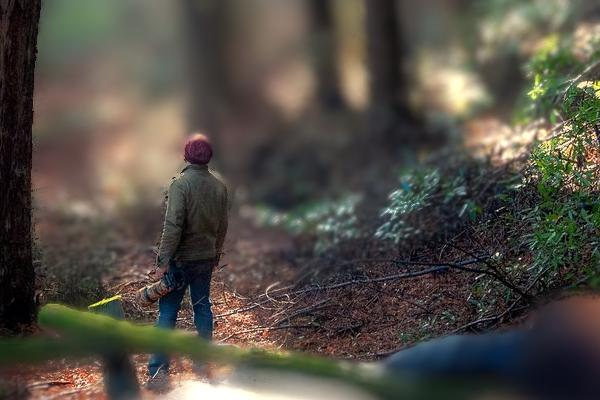
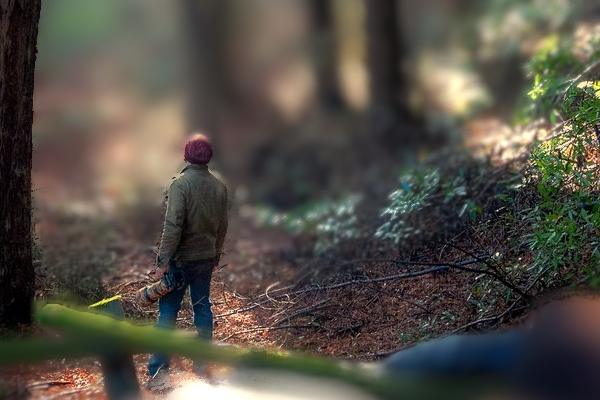
Lens Blur: no halo of a sharp subject in the background's blur
Coarse levels shrank the sharp subject together with the background, so its
color spread into the blur around it (Rosh's hat at 100%). A level now sees
only pixels that blur by about one of its pixels or more (atelierLensBlurWeigh,
weighted and divided back out in the gather); sharp pixels are holes there,
filled from what blurs onto them, and still take the foreground's spill.
Python port: halo ring error 0.19 -> 0.007 on a synthetic sharp disc at a
90 px blur; help 100% picture regenerated.

Claude-Session: https://claude.ai/code/session_013w17eDTrFTBU84rUGLD2Nf

diff --git a/Sources/AtelierCore/Develop/LensBlur.swift b/Sources/AtelierCore/Develop/LensBlur.swift
@@ -110,7 +110,8 @@ public enum LensBlur {
         guard isOn(settings), let kernels, let cocKernel = kernels["atelierLensBlurCoC"],
               let boostKernel = kernels["atelierLensBlurBoost"], let gather = kernels["atelierLensBlurGather"],
               let levelKernel = kernels["atelierLensBlurLevel"], let composite = kernels["atelierLensBlurComposite"],
-              let spillKernel = kernels["atelierLensBlurSpill"] else { return image }
+              let spillKernel = kernels["atelierLensBlurSpill"],
+              let weighKernel = kernels["atelierLensBlurWeigh"] else { return image }
         let extent = image.extent
         let longEdge = Double(max(extent.width, extent.height))
         let maxRadius = settings[.lensBlurAmount] / 100 * maxRadiusShare * longEdge
@@ -140,6 +141,16 @@ public enum LensBlur {
             let factor = pow(levelStep, -Double(level))
             let frame = CGRect(x: 0, y: 0, width: max(1, (extent.width * factor).rounded(.down)),
                                height: max(1, (extent.height * factor).rounded(.down)))
+            // What a level sees: only pixels that blur by about one of its pixels or more. A sharp
+            // pixel (the subject in focus) shrunk into a coarse level spread its color into the
+            // background's blur around it, a halo outside a sharp edge (Rosh's hat, Nov 16, 2026).
+            // Weighted (color and blur times the weight, the weight in alpha) and divided back
+            // out in the gather; level 0 keeps every pixel.
+            let minimum = level == 0 ? -1.0 : maxRadius * factor
+            func weighed(_ picture: CIImage, blurSizes: Bool) -> CIImage? {
+                weighKernel.apply(extent: extent, roiCallback: same,
+                                  arguments: [picture, coc, CIVector(x: minimum, y: blurSizes ? 1 : 0)])
+            }
             func shrink(_ picture: CIImage) -> CIImage {
                 let moved = picture.transformed(by: toOrigin)
                 guard level > 0 else { return moved }
@@ -160,9 +171,10 @@ public enum LensBlur {
             // bark) under it came out mottled, and a coarse level's upsizing made the mottle
             // large at 100%. Softening the colors by under a pixel first keeps the blur smooth
             // (checked on the redwoods photo at 100%, Nov 16, 2026).
-            guard let blurred = gather.apply(extent: frame, roiCallback: around,
-                                             arguments: [shrink(boosted).clampedToExtent().applyingGaussianBlur(sigma: prefilter),
-                                                         shrink(coc).clampedToExtent(),
+            guard let levelColor = weighed(boosted, blurSizes: false), let levelCoC = weighed(coc, blurSizes: true),
+                  let blurred = gather.apply(extent: frame, roiCallback: around,
+                                             arguments: [shrink(levelColor).clampedToExtent().applyingGaussianBlur(sigma: prefilter),
+                                                         shrink(levelCoC).clampedToExtent(),
                                                          CIVector(x: radius, y: shape, z: catEye, w: Double(samples)),
                                                          center, CIVector(x: maxRadius * factor, y: cutoff)])
             else { return image }
@@ -272,6 +284,19 @@ public enum LensBlur {
             return float4(c, c, c, 1.0);
         }
 
+        // A level's input, weighted by whether the pixel blurs by about a level pixel or more
+        // (params.x: the largest blur in this level's pixels; negative keeps every pixel).
+        // params.y 0: the color times the weight, the weight in alpha; 1: the signed blur times
+        // the weight in red, the weight in green. The gather divides the weight back out.
+        [[stitchable]] float4 atelierLensBlurWeigh(coreimage::sampler image, coreimage::sampler coc, float2 params,
+                                                   coreimage::destination dest) {
+            float c = coc.sample(coc.transform(dest.coord())).r;
+            float w = params.x < 0.0 ? 1.0 : smoothstep(0.5, 1.5, abs(c) * params.x);
+            if (params.y > 0.5) { return float4(c * w, w, 0.0, 1.0); }
+            float4 color = image.sample(image.transform(dest.coord()));
+            return float4(color.rgb * w, w);
+        }
+
         // Boost: the brightest highlights (near clipping) brighter, so they spread as bright
         // bokeh. Only those: boosting every light tone turned sunlit wood into flat white blobs
         // (checked on the redwoods splash photo, Nov 15, 2026).
@@ -294,13 +319,21 @@ public enum LensBlur {
             float catEye = params.z;
             int count = int(params.w + 0.5);
             float2 p = dest.coord();
-            float cp = coc.sample(coc.transform(p)).r;
-            if (abs(cp) * scale.x >= scale.y) { return float4(0.0); }
+            // color and coc are weighted (atelierLensBlurWeigh): a pixel with almost no weight is
+            // a hole, sharp at this level. It takes no light of its own and gathers what blurs
+            // onto it from around (so the level stays filled up to a sharp edge), and counts as
+            // sharp for what spills over it from in front.
+            float2 own = coc.sample(coc.transform(p)).rg;
+            bool hole = own.y < 0.02;
+            float cp = hole ? 0.0 : own.x / own.y;
+            if (!hole && abs(cp) * scale.x >= scale.y) { return float4(0.0); }
             // Radii in this level's pixels: a blur past the gather's reach is cut to it.
             cp = sign(cp) * min(abs(cp) * scale.x, R) / R;
+            float cpReach = hole ? 1.0 : cp;
             float rp = abs(cp) * R;
-            float selfWeight = 1.0 / max(rp * rp, 1.0);
-            float3 sum = color.sample(color.transform(p)).rgb * selfWeight;
+            float selfWeight = hole ? 0.0 : 1.0 / max(rp * rp, 1.0);
+            float4 ownColor = color.sample(color.transform(p));
+            float3 sum = hole ? float3(0.0) : ownColor.rgb / max(ownColor.a, 0.0001) * selfWeight;
             float total = selfWeight;
             float spill = 0.0;
             float2 toEdge = (p - frame.xy) / frame.z;
@@ -309,10 +342,12 @@ public enum LensBlur {
                 float angle = float(i) * 2.39996323;
                 float2 o = r * float2(cos(angle), sin(angle));
                 float2 q = p + o;
-                float cq = coc.sample(coc.transform(q)).r;
+                float2 there = coc.sample(coc.transform(q)).rg;
+                if (there.y < 0.02) { continue; }
+                float cq = there.x / there.y;
                 cq = sign(cq) * min(abs(cq) * scale.x, R) / R;
                 // Something farther than this pixel blurs onto it no more than this pixel blurs.
-                float reach = (cq > cp ? min(abs(cq), abs(cp)) : abs(cq)) * R;
+                float reach = (cq > cpReach ? min(abs(cq), abs(cpReach)) : abs(cq)) * R;
                 float2 d = -o;
                 float limit = 1.0;
                 if (shape == 2) {
@@ -334,11 +369,14 @@ public enum LensBlur {
                 if (shape == 1) { light = 0.55 + 0.9 * u * u * u * u; }
                 else if (shape == 3) { light = 0.12 + smoothstep(0.55, 0.85, u); }
                 float w = cover * light / max(reach * reach, 1.0);
-                sum += color.sample(color.transform(q)).rgb * w;
+                float4 seen = color.sample(color.transform(q));
+                sum += seen.rgb / max(seen.a, 0.0001) * w;
                 total += w;
                 if (cq < cp - 0.02 && abs(cq) > abs(cp)) { spill += w; }
             }
-            return float4(sum / total, spill / total);
+            // A hole's spill is measured against a sharp pixel's own weight (1), as at full size.
+            float alpha = hole ? spill / (1.0 + spill) : spill / max(total, 0.0001);
+            return float4(total > 0.0 ? sum / total : float3(0.0), alpha);
         }
 
         // Mixes in level `params.y` over the levels before it. params: largest blur (full-size

diff --git a/Scripts/help/make_help_images.py b/Scripts/help/make_help_images.py
@@ -437,16 +437,22 @@ def calibration(image, red_hue=0, red_sat=0, green_hue=0, green_sat=0, blue_hue=
     return np.power(np.clip(out, 0, 1), 1 / 2.2)
 
 
-def _lens_gather(color, c, R, shape, cat_eye, count, skip):
+def _lens_gather(color, c, R, shape, cat_eye, count, skip, holes=None):
     """One level of Lens Blur's gather (atelierLensBlurGather): `c` is the signed blur, capped to
     this level's radius `R` (in its pixels) and divided by it; `skip` marks the pixels whose own
-    blur belongs to coarser levels (left at 0). Returns the blur and the spill."""
+    blur belongs to coarser levels (left at 0); `holes` the pixels sharp at this level (no
+    weight in atelierLensBlurWeigh), which take no light of their own and are never gathered.
+    Returns the blur and the spill."""
     from scipy.ndimage import map_coordinates
     h, w = c.shape
+    if holes is None:
+        holes = np.zeros((h, w), bool)
     yy, xx = np.mgrid[0:h, 0:w].astype(np.float32)
     half = 0.5 * np.hypot(w, h)
     vx, vy = (xx - w / 2) / half, (yy - h / 2) / half
-    weight = 1 / np.maximum((np.abs(c) * R) ** 2, 1)
+    hf = holes.astype(np.float32)
+    c_reach = np.where(holes, 1.0, c)
+    weight = np.where(holes, 0.0, 1 / np.maximum((np.abs(c) * R) ** 2, 1))
     total, acc, spill = weight.copy(), color * weight[..., None], np.zeros_like(weight)
     for i in range(count):
         r = R * np.sqrt((i + 0.5) / count)
@@ -454,7 +460,8 @@ def _lens_gather(color, c, R, shape, cat_eye, count, skip):
         ox, oy = r * np.cos(a), r * np.sin(a)
         cq = map_coordinates(c, [yy + oy, xx + ox], order=1, mode="nearest")
         cols = np.dstack([map_coordinates(color[..., k], [yy + oy, xx + ox], order=1, mode="nearest") for k in range(3)])
-        reach = np.where(cq > c, np.minimum(np.abs(cq), np.abs(c)), np.abs(cq)) * R
+        hq = map_coordinates(hf, [yy + oy, xx + ox], order=1, mode="nearest")
+        reach = np.where(cq > c_reach, np.minimum(np.abs(cq), np.abs(c_reach)), np.abs(cq)) * R
         dx, dy = -ox, -oy
         limit = 1.0
         if shape == 2:
@@ -462,7 +469,7 @@ def _lens_gather(color, c, R, shape, cat_eye, count, skip):
             limit = 0.80901699 / np.cos(t)
         elif shape == 4:
             limit = 1 / np.sqrt((dx / max(r, 1e-4) / 0.55) ** 2 + (dy / max(r, 1e-4)) ** 2)
-        cover = np.clip(reach * limit - r + 0.5, 0, 1)
+        cover = np.clip(reach * limit - r + 0.5, 0, 1) * (hq < 0.5)
         if cat_eye > 0:
             cover *= np.clip(reach - np.hypot(dx + cat_eye * 0.7 * vx * reach, dy + cat_eye * 0.7 * vy * reach) + 0.5, 0, 1)
         u = np.clip(r / np.maximum(reach * limit, 1e-3), 0, 1)
@@ -471,8 +478,9 @@ def _lens_gather(color, c, R, shape, cat_eye, count, skip):
         acc += cols * wq[..., None]
         total += wq
         spill += np.where((cq < c - 0.02) & (np.abs(cq) > np.abs(c)), wq, 0)
-    out = np.dstack([acc / total[..., None], spill / total])
-    return np.where(skip[..., None], 0.0, out)
+    alpha = np.where(holes, spill / (1 + spill), spill / np.maximum(total, 1e-6))
+    out = np.dstack([acc / np.maximum(total, 1e-6)[..., None], alpha])
+    return np.where((skip & ~holes)[..., None], 0.0, out)
 
 
 def lens_blur(image, depth, amount=0.5, near=0.7, far=0.8, shape=0, cat_eye=0.0, boost=0.5, areas=None):
@@ -498,19 +506,27 @@ def lens_blur(image, depth, amount=0.5, near=0.7, far=0.8, shape=0, cat_eye=0.0,
     while True:
         factor = 3.0 ** -k
         w, h = max(1, int(W * factor)), max(1, int(H * factor))
+        holes = None
         if k == 0:
             color, c = boosted, coc
         else:
-            small = cv2.resize(np.dstack([boosted, coc]), (w, h), interpolation=cv2.INTER_LANCZOS4)
-            color, c = small[..., :3], small[..., 3]
+            # Only pixels that blur by about a level pixel or more feed a coarse level, so a sharp
+            # edge doesn't spread a halo into the background's blur (atelierLensBlurWeigh).
+            wt = smoothstep(0.5, 1.5, np.abs(coc) * max_r * factor).astype(np.float32)
+            small_color = cv2.resize(boosted * wt[..., None], (w, h), interpolation=cv2.INTER_AREA)
+            small = cv2.resize(np.dstack([coc * wt, wt]), (w, h), interpolation=cv2.INTER_AREA)
+            sw = small[..., 1]
+            holes = sw < 0.02
+            color = np.where(holes[..., None], 0, small_color / np.maximum(sw, 1e-6)[..., None])
+            c = np.where(holes, 0, small[..., 0] / np.maximum(sw, 1e-6))
         R = min(12.0, max_r * factor)
         last = 12 * 3 ** k >= max_r or k >= 5
         cutoff = 1e9 if last else 4 * 3 ** (k + 1) * factor
-        skip = np.abs(c) * max_r * factor >= cutoff
+        skip = (np.abs(c) * max_r * factor >= cutoff) & (True if holes is None else ~holes)
         c = np.sign(c) * np.minimum(np.abs(c) * max_r * factor, R) / R
         count = min(112, max(12, round(np.pi * R * R / 3.5)))
         # Softened by under a pixel first, so fine texture doesn't come out mottled (LensBlur.prefilter).
-        out = _lens_gather(cv2.GaussianBlur(color, (0, 0), 0.8), c, R, shape, cat_eye, count, skip)
+        out = _lens_gather(cv2.GaussianBlur(color, (0, 0), 0.8), c, R, shape, cat_eye, count, skip, holes)
         levels.append(out if k == 0 else cv2.resize(out, (W, H), interpolation=cv2.INTER_LINEAR))
         if last:
             break
